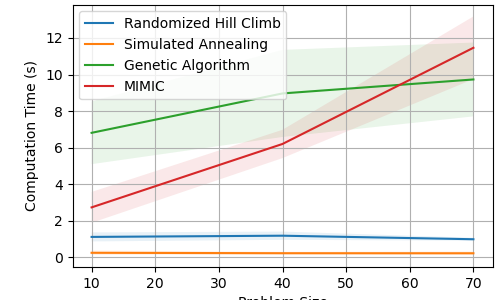
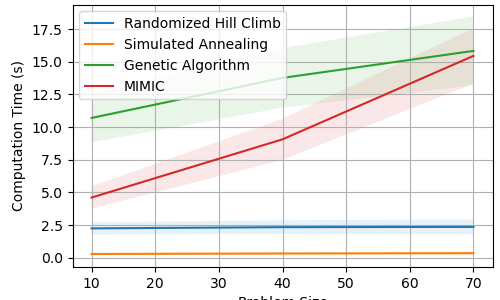
Setup for overnight run.

Changed region(s): [[0.03, 0.09, 0.96, 0.72], [0.06, 0.72, 0.99, 0.9], [0.06, 0.06, 0.15, 0.15]]

diff --git a/Assignment 2/tests/hyperparameter_tester.py b/Assignment 2/tests/hyperparameter_tester.py
@@ -8,18 +8,18 @@ from tqdm import tqdm
 from util.graphing import plot_lc_iterations, plot_fitness_vs_complexity, plot_time_vs_complexity, plot_lc_evaluations, \
     plot_hyperparam_dict_generic, plot_helper
 
-
 N_JOBS = 7
 
 
 class HyperTester(object):
-    def __init__(self, problem_constructor, dataset, n_runs=3):
+    def __init__(self, problem_constructor, dataset, n_runs=7):
         self.ProblemConstructor = problem_constructor
         self.Dataset = dataset
         self.N_Runs = n_runs
         return
 
-    def generic_hyperparam_multi(self, problem, init_state, function, params, legend_base_label, filename_base, dataset):
+    def generic_hyperparam_multi(self, function, params, legend_base_label, filename_base,
+                                 dataset):
         fitness_curve_dict = {}
 
         for p in params:
@@ -29,31 +29,37 @@ class HyperTester(object):
 
         for _ in range(0, self.N_Runs):
 
-            processed_list_all = Parallel(n_jobs=N_JOBS)(delayed(function)(i, problem, init_state) for i in inputs)
+            processed_list_all = Parallel(n_jobs=N_JOBS)(delayed(function)(i) for i in inputs)
 
             for res in processed_list_all:
-                fitness_curve_dict[res[0]].append(res[1][:, 0]) # TODO split this to just grab fitness
+                fitness_curve_dict[res[0]].append(res[1][:, 0])  # TODO split this to just grab fitness
 
         # plotting
         plot_hyperparam_dict_generic(fitness_curve_dict, label=legend_base_label)
         plot_helper('', dataset + '_hyperparam' + filename_base, dataset)
 
-    def hyperparam_rhc(self, problem, init_state):
+    def hyperparam_rhc(self):
+        problem, init_state = self.ProblemConstructor()
+
         num_restarts = [0, 4, 8, 12, 16]
-        self.generic_hyperparam_multi(problem, init_state, function=self.run_single_hyper_rhc, params=num_restarts, legend_base_label='# restarts = ', filename_base='_rhc_restarts', dataset=self.Dataset )
+        self.generic_hyperparam_multi(function=self.run_single_hyper_rhc, params=num_restarts,
+                                      legend_base_label='# restarts = ', filename_base='_rhc_restarts',
+                                      dataset=self.Dataset)
 
         print("Completed RHC hyper-parameter testing!")
         return
 
+    def run_single_hyper_rhc(self, r):
+        problem, init_state = self.ProblemConstructor()
 
-    def run_single_hyper_rhc(self,r, problem, init_state):
         _, _, fitness_curve = mlrose_hiive.random_hill_climb(problem, restarts=r, max_attempts=1000,
-                                                                          max_iters=10000,
-                                                                          init_state=init_state, curve=True)
+                                                             max_iters=10000,
+                                                             init_state=init_state, curve=True)
         return str(r), fitness_curve
 
+    def hyperparam_sa(self):
+        problem, init_state = self.ProblemConstructor()
 
-    def hyperparam_sa(self,problem, init_state):
         _, _, fitness_curve_sa_1 = mlrose_hiive.simulated_annealing(problem, schedule=mlrose_hiive.ExpDecay(),
                                                                     max_attempts=1000, max_iters=100000,
                                                                     init_state=init_state, curve=True)
@@ -75,68 +81,71 @@ class HyperTester(object):
         plt.legend()
         plt.xlabel('Iterations')
         plt.ylabel('Fitness')
-        plot_helper('', self.Dataset  + '_hyperparam_sa_decay', self.Dataset )
+        plot_helper('', self.Dataset + '_hyperparam_sa_decay', self.Dataset)
         return
 
-
-    def hyperparam_ga(self,problem, init_state):
+    def hyperparam_ga(self):
         pop_size = [50, 100, 200, 350]
-        self.generic_hyperparam_multi(problem, init_state, function=self.run_single_hyper_ga_pop, params=pop_size, legend_base_label='Population = ',
-                                 filename_base='_ga_pop_size', dataset=self.Dataset )
+        self.generic_hyperparam_multi(function=self.run_single_hyper_ga_pop, params=pop_size,
+                                      legend_base_label='Population = ',
+                                      filename_base='_ga_pop_size', dataset=self.Dataset)
         print("Completed GA population size hyper-parameter")
 
         mutation_prob = [0.02, 0.05, 0.1, 0.2]
-        self.generic_hyperparam_multi(problem, init_state, function=self.run_single_hyper_ga_mut, params=mutation_prob, legend_base_label='Mutation Prob = ',
-                                 filename_base='_ga_mutation_prob', dataset=self.Dataset )
+        self.generic_hyperparam_multi(function=self.run_single_hyper_ga_mut, params=mutation_prob,
+                                      legend_base_label='Mutation Prob = ',
+                                      filename_base='_ga_mutation_prob', dataset=self.Dataset)
         print("Completed GA mutation prob testing")
         return
 
+    def run_single_hyper_ga_pop(self, pop):
+        problem, init_state = self.ProblemConstructor()
 
-    def run_single_hyper_ga_pop(self,pop, problem, init_state):
         _, _, fitness_curve = mlrose_hiive.genetic_alg(problem, mutation_prob=0.1, pop_size=pop,
-                                                                      max_attempts=1000,
-                                                                      max_iters=10000, curve=True)
+                                                       max_attempts=1000,
+                                                       max_iters=10000, curve=True)
         return str(pop), fitness_curve
 
+    def run_single_hyper_ga_mut(self, mut):
+        problem, init_state = self.ProblemConstructor()
 
-    def run_single_hyper_ga_mut(self,mut, problem, init_state):
         _, _, fitness_curve = mlrose_hiive.genetic_alg(problem, mutation_prob=mut, pop_size=100,
-                                                                          max_attempts=1000,
-                                                                          max_iters=10000, curve=True)
+                                                       max_attempts=1000,
+                                                       max_iters=10000, curve=True)
         return str(mut), fitness_curve
 
-
-    def hyperparam_mimic(self,problem, init_state):
+    def hyperparam_mimic(self):
         pop_size = [100, 200, 300, 400]
-        self.generic_hyperparam_multi(problem, init_state, function=self.run_single_hyper_mimic_pop, params=pop_size,
-                                 legend_base_label='Population = ',
-                                 filename_base='_mimic_pop_size', dataset=self.Dataset )
+        self.generic_hyperparam_multi(function=self.run_single_hyper_mimic_pop, params=pop_size,
+                                      legend_base_label='Population = ',
+                                      filename_base='_mimic_pop_size', dataset=self.Dataset)
         print("Completed MIMIC population size hyper-parameter")
 
         keep_percent = [0.05, 0.1, 0.2, 0.3]
-        self.generic_hyperparam_multi(problem, init_state, function=self.run_single_hyper_mimic_keep, params=keep_percent,
-                                 legend_base_label='Keep % = ',
-                                 filename_base='_mimic_keep_percent', dataset=self.Dataset )
+        self.generic_hyperparam_multi(function=self.run_single_hyper_mimic_keep,
+                                      params=keep_percent,
+                                      legend_base_label='Keep % = ',
+                                      filename_base='_mimic_keep_percent', dataset=self.Dataset)
         print("Completed MIMIC keep % testing")
 
-
-    def run_single_hyper_mimic_pop(self,pop, problem, init_state):
-        _, _, fitness_curve = mlrose_hiive.mimic(problem, keep_pct=0.1, pop_size=pop, max_attempts=100,
-                                                                max_iters=10000, curve=True)
-        return str(pop), fitness_curve
-
-
-    def run_single_hyper_mimic_keep(self,keep, problem, init_state):
-        _, _, fitness_curve = mlrose_hiive.mimic(problem, keep_pct=keep, pop_size=200, max_attempts=100,
-                                                                max_iters=10000, curve=True)
-        return str(keep), fitness_curve
-
-
-    def run_hyperparameters(self):
+    def run_single_hyper_mimic_pop(self, pop):
         problem, init_state = self.ProblemConstructor()
 
-        self.hyperparam_rhc(problem, init_state)
-        self.hyperparam_sa(problem, init_state)
-        self.hyperparam_ga(problem, init_state)
-        self.hyperparam_mimic(problem, init_state)
+        _, _, fitness_curve = mlrose_hiive.mimic(problem, keep_pct=0.1, pop_size=pop, max_attempts=100,
+                                                 max_iters=10000, curve=True)
+        return str(pop), fitness_curve
+
+    def run_single_hyper_mimic_keep(self, keep):
+        problem, init_state = self.ProblemConstructor()
+
+        _, _, fitness_curve = mlrose_hiive.mimic(problem, keep_pct=keep, pop_size=200, max_attempts=100,
+                                                 max_iters=10000, curve=True)
+        return str(keep), fitness_curve
+
+    def run_hyperparameters(self):
+
+        self.hyperparam_rhc()
+        self.hyperparam_sa()
+        self.hyperparam_ga()
+        self.hyperparam_mimic()
         return

diff --git a/Assignment 2/GenericTester.py b/Assignment 2/GenericTester.py
@@ -51,7 +51,7 @@ class GenericTester(object):
         # processed_list_all = Parallel(n_jobs=self.N_Jobs)(delayed(self._run_single_complexity)(i) for i in inputs)
         return
 
-    def run_experiment_complexity(self, number_of_runs=3):
+    def run_experiment_complexity(self, number_of_runs=10):
         inputs = tqdm(self.ComplexityList)
 
         fitness_dict = {
@@ -124,7 +124,7 @@ class GenericTester(object):
         return [rhc_time, sa_time, ga_time, mimic_time, best_fitness_rhc, best_fitness_sa, best_fitness_ga,
                 best_fitness_mimic, fc_rhc[:, 1], fc_sa[:, 1], fc_ga[:, 1], fc_mimic[:, 1]]
 
-    def run_experiment_iterations(self, number_of_runs=3):
+    def run_experiment_iterations(self, number_of_runs=10):
         inputs = tqdm(range(0, number_of_runs))
 
         ## Plot change with respect to iterations

diff --git a/Assignment 2/kcolor.py b/Assignment 2/kcolor.py
@@ -5,10 +5,11 @@ from GenericTester import GenericTester
 
 class KColor(GenericTester):
     def __init__(self):
-        super().__init__(name='flipflop', complexity_list=range(5, 20, 5))
+        super().__init__(name='kcolor', complexity_list=range(10, 150, 50))
 
     def problem_constructor(self, complexity=20, seed=123456):
-        problem = MaxKColorGenerator().generate(seed=123456, number_of_nodes=complexity)
+        max_connections = int(complexity / 5)
+        problem = MaxKColorGenerator().generate(seed=123456, number_of_nodes=complexity, max_connections_per_node=max_connections)
         problem.set_mimic_fast_mode(True)
         init_state = np.random.randint(2, size=complexity)
         return problem, init_state

diff --git a/Assignment 2/run.py b/Assignment 2/run.py
@@ -1,9 +1,29 @@
-from tests.flipflop import run_flipflop
+import time
+from queens import Queens
+from fourpeaks import FourPeaks
+from knapsack import KnapSack
+from flipflop import FlipFlop
+from kcolor import KColor
 
 if __name__ == '__main__':
-    # run_continuous_peaks()
-    # run_nqueens()
-    # run_kcolors()
-    run_flipflop()
-    # run_four_peaks()
-    # run_nn()
+
+    start = time.time()
+
+    tester = FourPeaks()
+    tester.run()
+
+    tester = KColor()
+    tester.run()
+
+    tester = FlipFlop()
+    tester.run()
+
+    tester = KnapSack()
+    tester.run()
+
+    tester = Queens()
+    tester.run()
+
+    total_time = time.time() - start
+    print("Total Run Time:", total_time)
+

diff --git a/Assignment 2/flipflop.py b/Assignment 2/flipflop.py
@@ -6,9 +6,9 @@ from GenericTester import GenericTester
 
 class FlipFlop(GenericTester):
     def __init__(self):
-        super().__init__(name='flipflop', complexity_list=range(25, 200, 50))
+        super().__init__(name='flipflop', complexity_list=range(100, 300, 70))
 
-    def problem_constructor(self, complexity=150, seed=123456):
+    def problem_constructor(self, complexity=180, seed=123456):
         problem = FlipFlopGenerator().generate(seed=123456, size=complexity)
         problem.set_mimic_fast_mode(True)
         init_state = np.random.randint(2, size=complexity)
